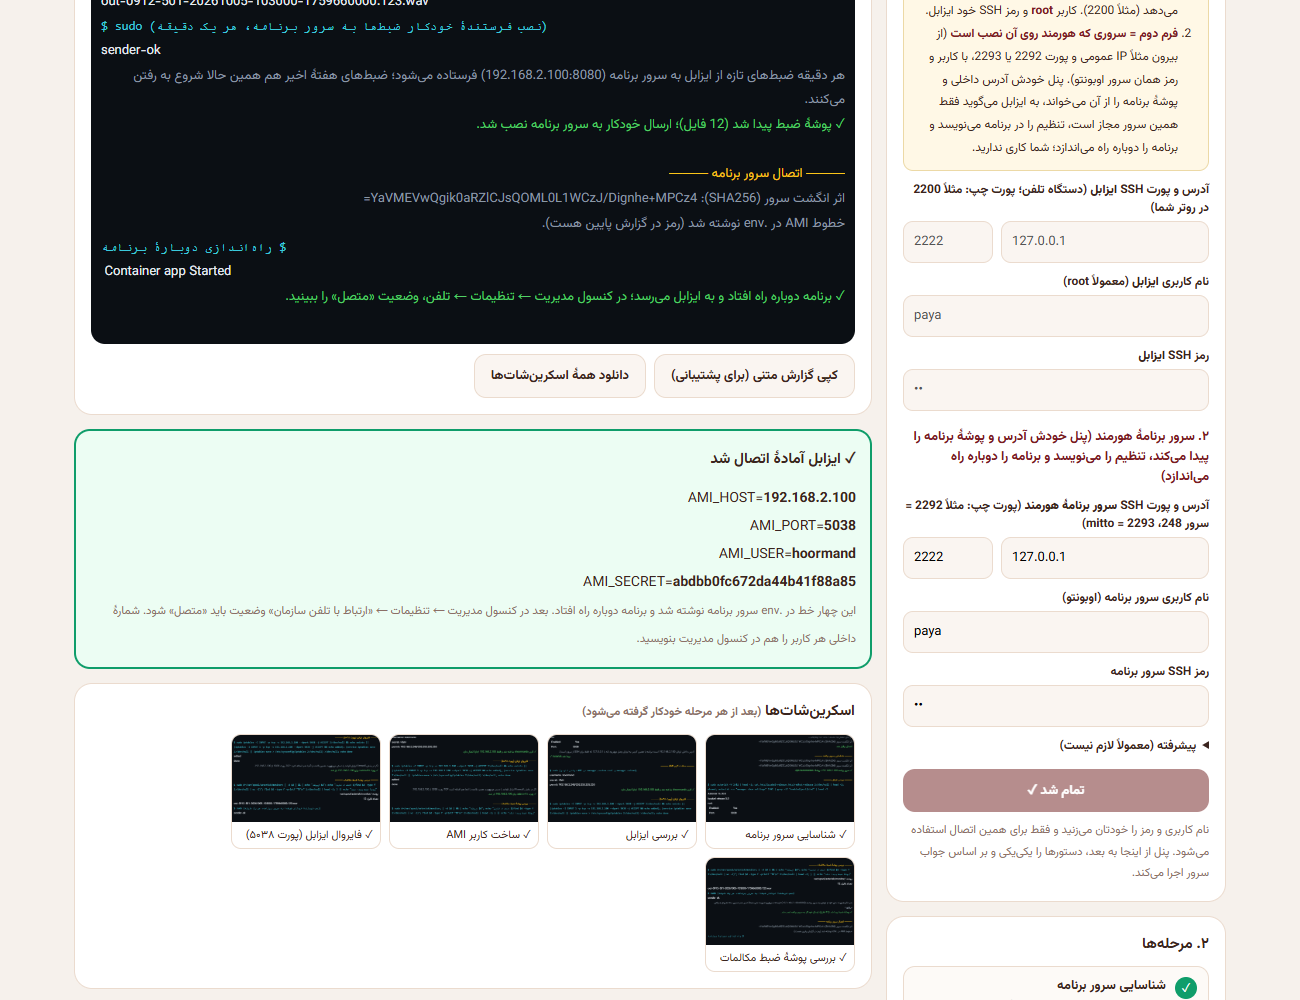
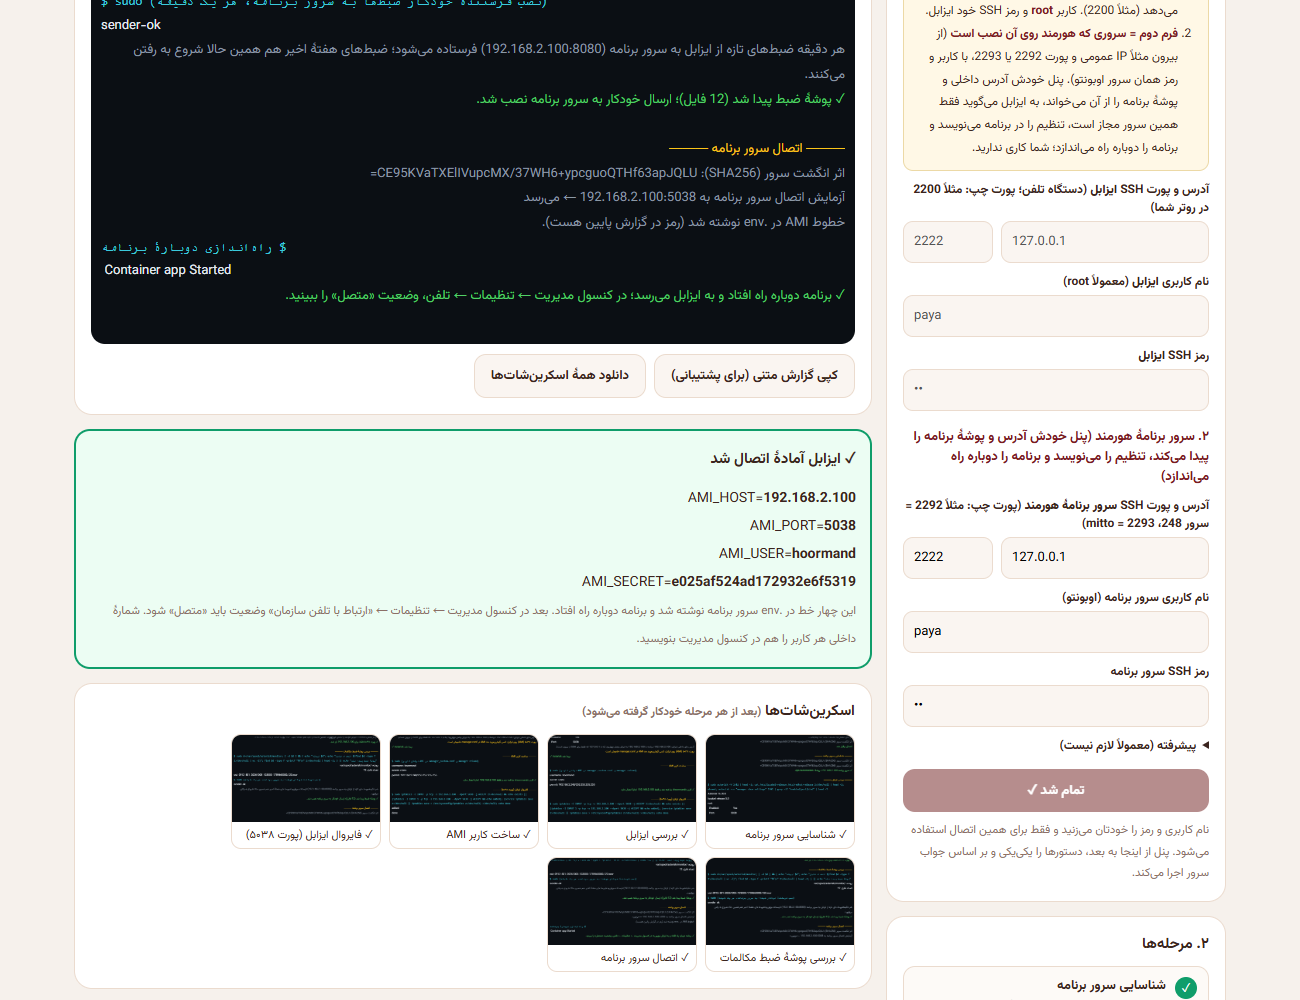
fix(installer): Issabel tool lists the phone system's LAN addresses and AMI listening state, and tests which one the app server can reach BEFORE writing .env

diff --git a/installer/server.js b/installer/server.js
@@ -468,6 +468,7 @@ class Session {
     const user = String(o.amiUser || 'hoormand').replace(/[^A-Za-z0-9_-]/g, '') || 'hoormand';
     const secret = String(o.amiSecret || '').replace(/[^A-Za-z0-9]/g, '') || require('crypto').randomBytes(12).toString('hex');
     let pbxHost = this.host; // replaced by the phone system's own LAN address when we reached it through the public IP
+    let pbxCands = []; // all private addresses of the phone system (found in the first step)
     const app = o.appSsh && o.appSsh.host && o.appSsh.user && o.appSsh.password ? o.appSsh : null;
     this.steps = [
       ...(app ? [{ id: 'srv', title: 'شناسایی سرور برنامه', status: 'wait' }] : []),
@@ -513,11 +514,18 @@ class Session {
         const r = await this.run('asterisk -V 2>&1 | head -1; cat /etc/issabel-release /etc/redhat-release 2>/dev/null | head -2; whoami; asterisk -rx "manager show settings" 2>&1 | grep -iE "enabled|port|bind" | head -5', { root: true });
         if (!/Asterisk\s+\d/i.test(r.out) || /command not found/i.test(r.out)) return { ok: false, note: 'Asterisk روی این سرور پیدا نشد. با آدرس خود ایزابل وصل شدهاید؟ (کاربر root لازم است.)' };
         // the app server lives inside the LAN: it must reach the phone system by its LAN address, not by the public IP we SSH into
-        const lan = (await this.run(LAN_CMD, { quiet: true })).out.trim();
-        if (/^\d{1,3}(\.\d{1,3}){3}$/.test(lan) && lan !== pbxHost) {
-          this.log('آدرس داخلی ایزابل ' + lan + ' است؛ برنامه با همین آدرس به ایزابل وصل میشود (نه با ' + pbxHost + ' که فقط برای SSH از بیرون است).', 'gray');
-          pbxHost = lan;
+        // every private address of this machine, the one used to reach the internet first
+        const found = (await this.run("(" + LAN_CMD + "; hostname -I 2>/dev/null | tr ' ' '\\n'; ip -4 -o addr show 2>/dev/null | awk '{print $4}' | cut -d/ -f1) | grep -E '^(10\\.|192\\.168\\.|172\\.(1[6-9]|2[0-9]|3[01])\\.)' | awk '!s[$0]++'", { quiet: true })).out.split(/\s+/).filter((x) => ip4.test(x));
+        pbxCands = found;
+        if (found.length) {
+          this.log('آدرسهای داخلی ایزابل: ' + found.join('، ') + (found[0] !== pbxHost ? '؛ برنامه با ' + found[0] + ' به ایزابل وصل میشود (نه با ' + pbxHost + ' که فقط برای SSH از بیرون است).' : ''), 'gray');
+          if (found[0] !== pbxHost) pbxHost = found[0];
+        } else if (!/^(10\.|192\.168\.|172\.(1[6-9]|2[0-9]|3[01])\.)/.test(pbxHost)) {
+          this.log('هشدار: آدرس داخلی ایزابل را پیدا نکردم و آدرسی که با آن SSH زدید (' + pbxHost + ') بیرونی است؛ اتصال برنامه به ایزابل با آن کار نمیکند.', 'yellow');
         }
+        const listen = (await this.run("ss -ltn 2>/dev/null | grep -E ':5038\\b' || netstat -ltn 2>/dev/null | grep -E ':5038\\b'", { quiet: true })).out.trim();
+        this.log('پورت ۵۰۳۸ (AMI) روی ایزابل: ' + (listen ? listen.replace(/\s+/g, ' ') : 'کسی گوش نمیدهد؛ AMI در manager.conf خاموش است'), listen ? 'gray' : 'yellow');
+        if (listen && /127\.0\.0\.1:5038/.test(listen) && !/(0\.0\.0\.0|\*|\[::\]):5038/.test(listen)) this.log('AMI فقط روی خود ایزابل (127.0.0.1) گوش میدهد؛ در /etc/asterisk/manager.conf مقدار bindaddr باید 0.0.0.0 باشد تا سرور برنامه وصل شود.', 'yellow');
         if (/Manager \(AMI\):\s*No/i.test(r.out)) this.log('هشدار: AMI در manager.conf خاموش است (enabled = yes لازم است).', 'yellow');
         return { ok: true, note: 'Asterisk پیدا شد.' };
       },
@@ -592,14 +600,22 @@ class Session {
         }
         const dir = String(app.dir || '/opt/automation').replace(/[^A-Za-z0-9/_.-]/g, '');
         this.dir = dir;
+        // find the address of the phone system that THIS server can really reach, before anything is written into .env
+        const tryHosts = [...new Set([pbxHost, ...pbxCands])];
+        let okHost = '';
+        for (const h of tryHosts) {
+          const t = await this.run('timeout 6 bash -c "echo > /dev/tcp/' + h + '/5038" && echo reach-ok || echo reach-fail', { quiet: true });
+          this.log('آزمایش اتصال سرور برنامه به ' + h + ':5038 ← ' + (/reach-ok/.test(t.out) ? 'میرسد' : 'نمیرسد'), /reach-ok/.test(t.out) ? 'gray' : 'yellow');
+          if (/reach-ok/.test(t.out)) { okHost = h; break; }
+        }
+        if (!okHost) return { ok: false, note: 'سرور برنامه به ایزابل (' + tryHosts.join('، ') + ') پورت ۵۰۳۸ نمیرسد؛ چیزی در .env نوشته نشد. علتهای محتمل: AMI فقط روی خود ایزابل گوش میدهد (در manager.conf مقدار bindaddr باید 0.0.0.0 باشد)، فایروال ایزابل، یا مسیر شبکه. خطوط زرد بالا را بفرستید.' };
+        pbxHost = okHost;
         const lines = { AMI_HOST: pbxHost, AMI_PORT: '5038', AMI_USER: user, AMI_SECRET: secret, VOIP_RECORDING_KEY: recKey };
         const upd = Object.entries(lines).map(([k, v]) => 'grep -q "^' + k + '=" .env && sed -i "s|^' + k + '=.*|' + k + '=' + v + '|" .env || echo "' + k + '=' + v + '" >> .env').join('; ');
         const r = await this.run('cd ' + dir + ' && [ -f .env ] && cp -n .env .env.bak-hoormand && ' + upd + ' && echo env-ok', { root: true, quiet: true });
         if (!/env-ok/.test(r.out)) return { ok: false, note: 'فایل .env در ' + dir + ' پیدا یا نوشته نشد.' };
         this.log('خطوط AMI در .env نوشته شد (رمز در گزارش پایین هست).', 'gray');
         const up = await this.runJob('cd ' + dir + ' && docker compose up -d 2>&1 | tail -5', { label: 'راهاندازی دوبارهٔ برنامه' });
-        const t = await this.run('timeout 6 bash -c "echo > /dev/tcp/' + pbxHost + '/5038" && echo reach-ok || echo reach-fail', { quiet: true });
-        if (/reach-fail/.test(t.out)) return { ok: false, note: 'سرور برنامه به ' + pbxHost + ' پورت ۵۰۳۸ نمیرسد (فایروال یا مسیر شبکه).' };
         return { ok: up.code === 0, note: up.code === 0 ? 'برنامه دوباره راه افتاد و به ایزابل میرسد؛ در کنسول مدیریت ← تنظیمات ← تلفن، وضعیت «متصل» را ببینید.' : 'برنامه راهاندازی نشد.' };
       },
     };

diff --git a/installer/test/fake-server.js b/installer/test/fake-server.js
@@ -15,7 +15,7 @@ function answer(script) {
   const out = (stdout = '', code = 0, stderr = '') => ({ stdout, code, stderr });
   if (/^stat -c %s \/tmp\/hoormand-src\.tgz/.test(script)) return out(String(st.uploadedBytes || 0) + '\n');
   // Issabel / phone-system commands
-  if (/^ip -4 route get 1\.1\.1\.1/.test(script)) return out('192.168.2.100\n');
+  if (/ip -4 route get 1\.1\.1\.1/.test(script)) return out('192.168.2.100\n');
   if (/hoormand-push-recordings\.sh/.test(script)) { st.sender = Buffer.from(/echo (\S+) \| base64 -d/.exec(script)[1], 'base64').toString(); require('fs').writeFileSync(process.env.SENDER_OUT || 'sender-test.sh', st.sender); return out('sender-ok\n'); }
   if (/^docker ps --filter label=com\.docker\.compose\.service=app --format '\{\{\.Ports\}\}'/.test(script)) return out('0.0.0.0:8080->8080/tcp\n');
   if (/^docker ps --filter label=com\.docker\.compose\.service=app/.test(script)) return out('/opt/automation\n');
